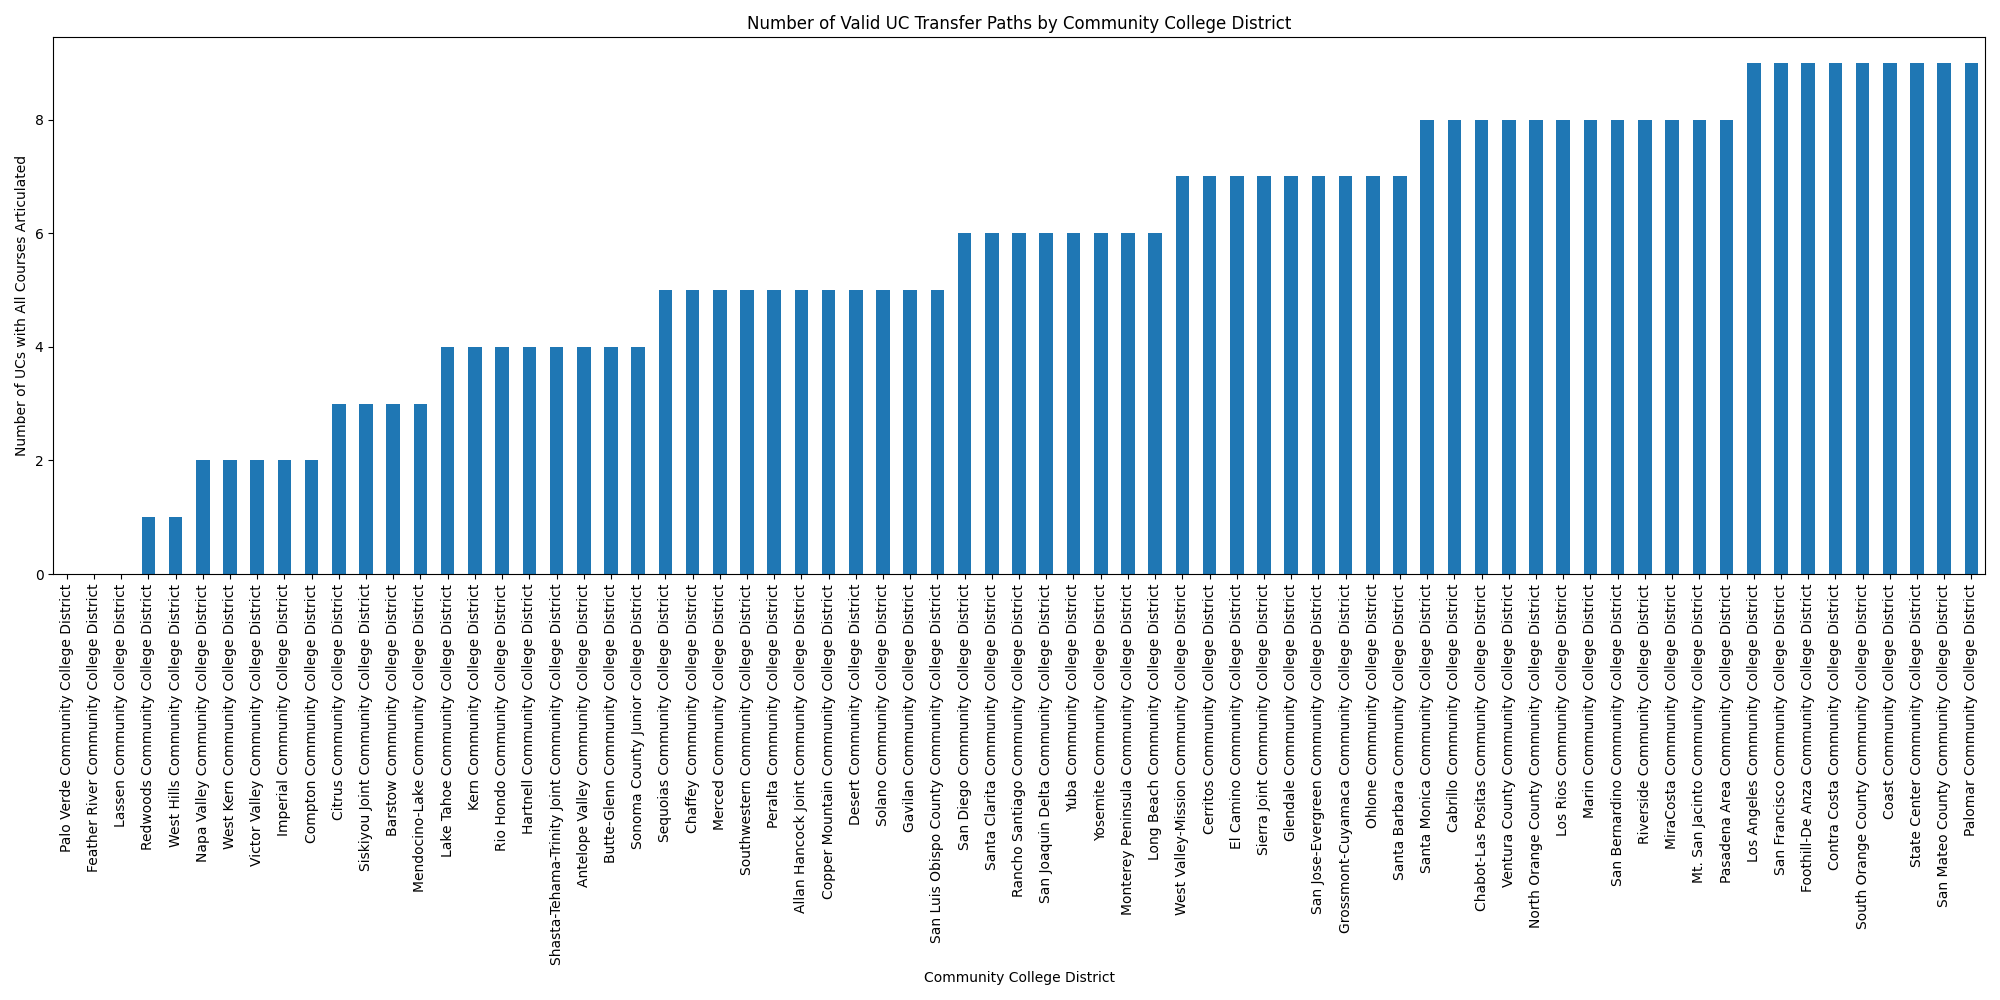
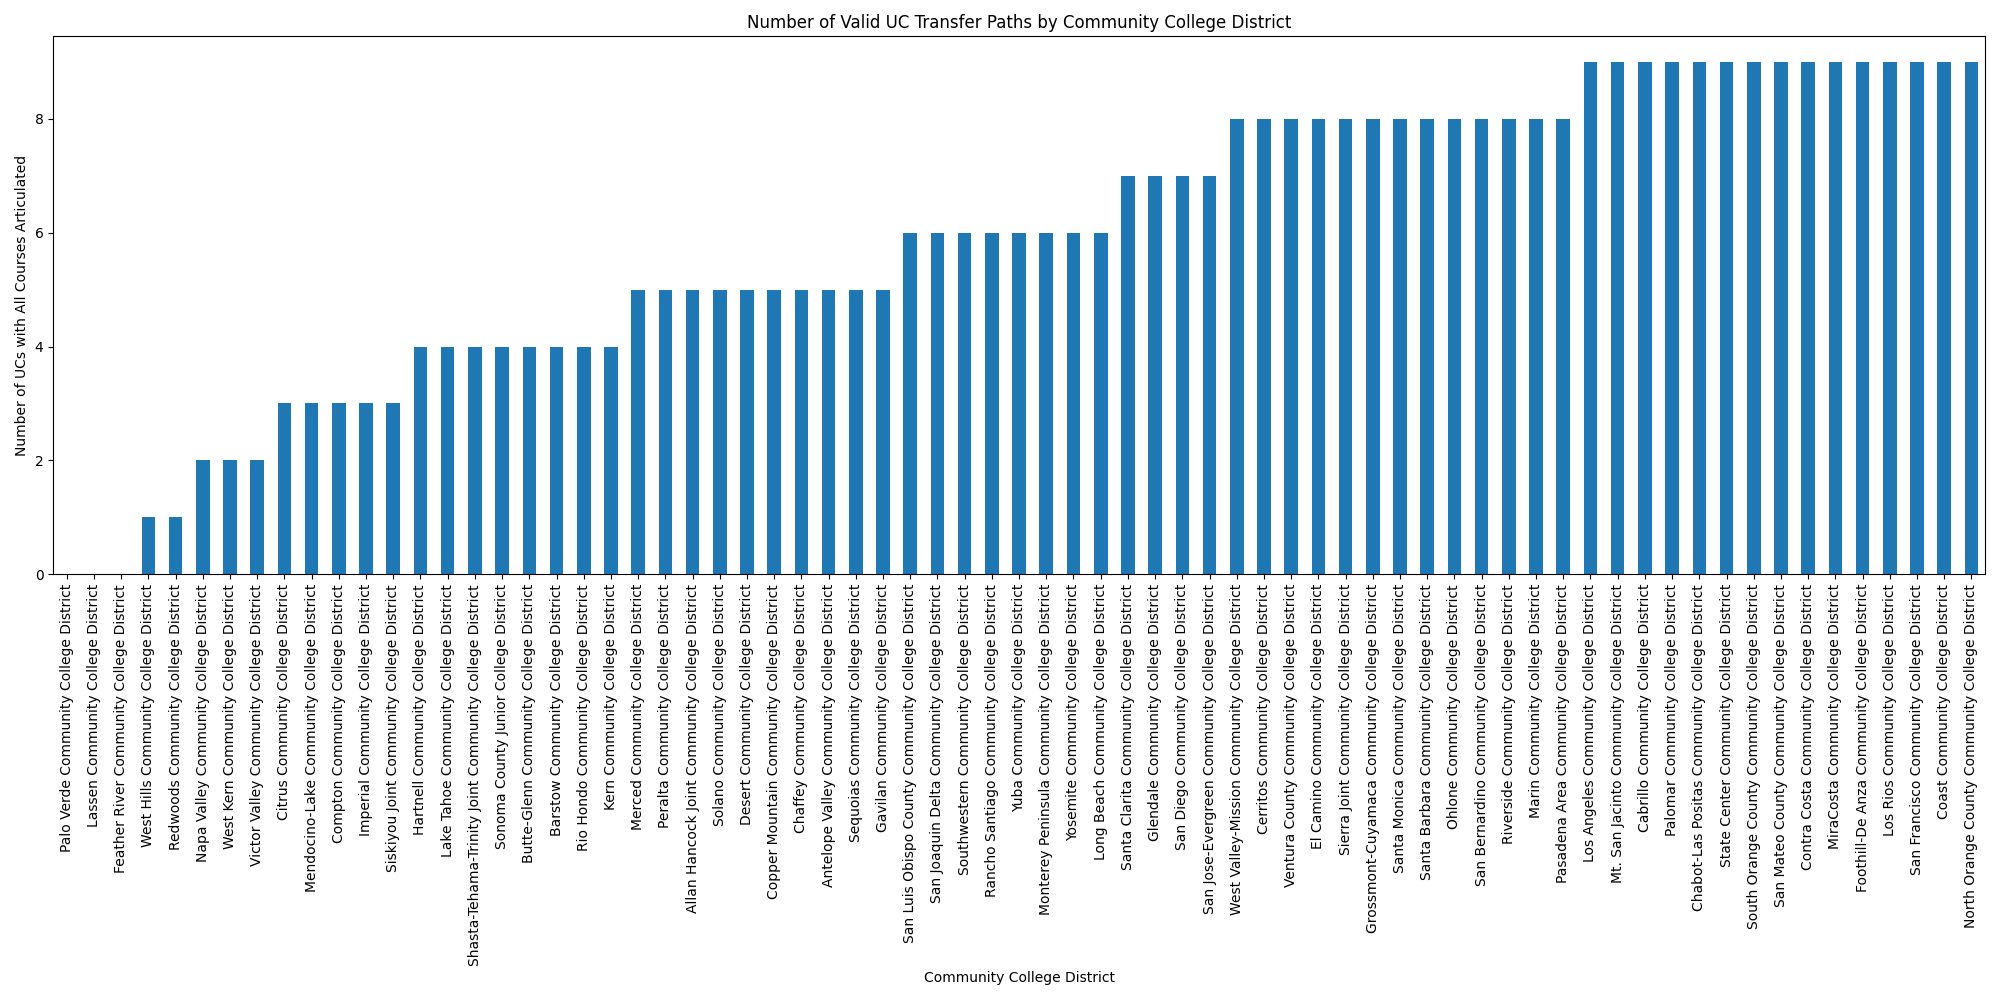
fixed issues with group and set ids

diff --git a/district_least_options.py b/district_least_options.py
@@ -7,13 +7,48 @@ def can_transfer_to_uc(df, uc_name):
     # Get all requirements for this UC
     uc_requirements = df[df['UC Name'] == uc_name]
     
-    # Check all course groups for "Not Articulated"
-    for _, row in uc_requirements.iterrows():
-        if row['College Name'] == 'Not Articulated':
-            return False
-        for col in [col for col in df.columns if col.startswith('Courses Group')]:
-            if pd.notna(row[col]) and 'Not Articulated' in str(row[col]):
+    # Group requirements by Group ID
+    grouped_requirements = uc_requirements.groupby('Group ID')
+    
+    for group_id, group_df in grouped_requirements:
+        # Get unique Set IDs for this group
+        set_ids = group_df['Set ID'].unique()
+        
+        # If there's only one Set ID, all courses in the group must be articulated
+        if len(set_ids) == 1:
+            for _, row in group_df.iterrows():
+                if row['College Name'] == 'Not Articulated':
+                    return False
+                # Check all course groups for "Not Articulated"
+                for col in [col for col in df.columns if col.startswith('Courses Group')]:
+                    if pd.notna(row[col]) and 'Not Articulated' in str(row[col]):
+                        return False
+        else:
+            # For multiple Set IDs, at least one set must be fully articulated
+            valid_set_found = False
+            for set_id in set_ids:
+                set_df = group_df[group_df['Set ID'] == set_id]
+                set_valid = True
+                
+                for _, row in set_df.iterrows():
+                    if row['College Name'] == 'Not Articulated':
+                        set_valid = False
+                        break
+                    # Check all course groups for "Not Articulated"
+                    for col in [col for col in df.columns if col.startswith('Courses Group')]:
+                        if pd.notna(row[col]) and 'Not Articulated' in str(row[col]):
+                            set_valid = False
+                            break
+                    if not set_valid:
+                        break
+                
+                if set_valid:
+                    valid_set_found = True
+                    break
+            
+            if not valid_set_found:
                 return False
+    
     return True
 
 def count_transfer_options(file_path):

diff --git a/least_options.py b/least_options.py
@@ -7,11 +7,38 @@ def can_transfer_to_uc(df, uc_name):
     # Get all requirements for this UC
     uc_requirements = df[df['UC Name'] == uc_name]
     
-    # Check all course groups for "Not Articulated"
-    for _, row in uc_requirements.iterrows():
-        for col in [col for col in df.columns if col.startswith('Courses Group')]:
-            if pd.notna(row[col]) and 'Not Articulated' in str(row[col]):
+    # Group requirements by Group ID to handle sets
+    grouped_reqs = uc_requirements.groupby('Group ID')
+    
+    # Check each group of requirements
+    for group_id, group_data in grouped_reqs:
+        # If there are multiple Set IDs, only one needs to be satisfied
+        set_ids = group_data['Set ID'].unique()
+        if len(set_ids) > 1:
+            # Check if at least one set is satisfied
+            set_satisfied = False
+            for set_id in set_ids:
+                set_data = group_data[group_data['Set ID'] == set_id]
+                # Check if this set has any "Not Articulated" courses
+                has_not_articulated = False
+                for _, row in set_data.iterrows():
+                    for col in [col for col in df.columns if col.startswith('Courses Group')]:
+                        if pd.notna(row[col]) and 'Not Articulated' in str(row[col]):
+                            has_not_articulated = True
+                            break
+                    if has_not_articulated:
+                        break
+                if not has_not_articulated:
+                    set_satisfied = True
+                    break
+            if not set_satisfied:
                 return False
+        else:
+            # Single set ID - all courses must be satisfied
+            for _, row in group_data.iterrows():
+                for col in [col for col in df.columns if col.startswith('Courses Group')]:
+                    if pd.notna(row[col]) and 'Not Articulated' in str(row[col]):
+                        return False
     return True
 
 def count_transfer_options(file_path):
